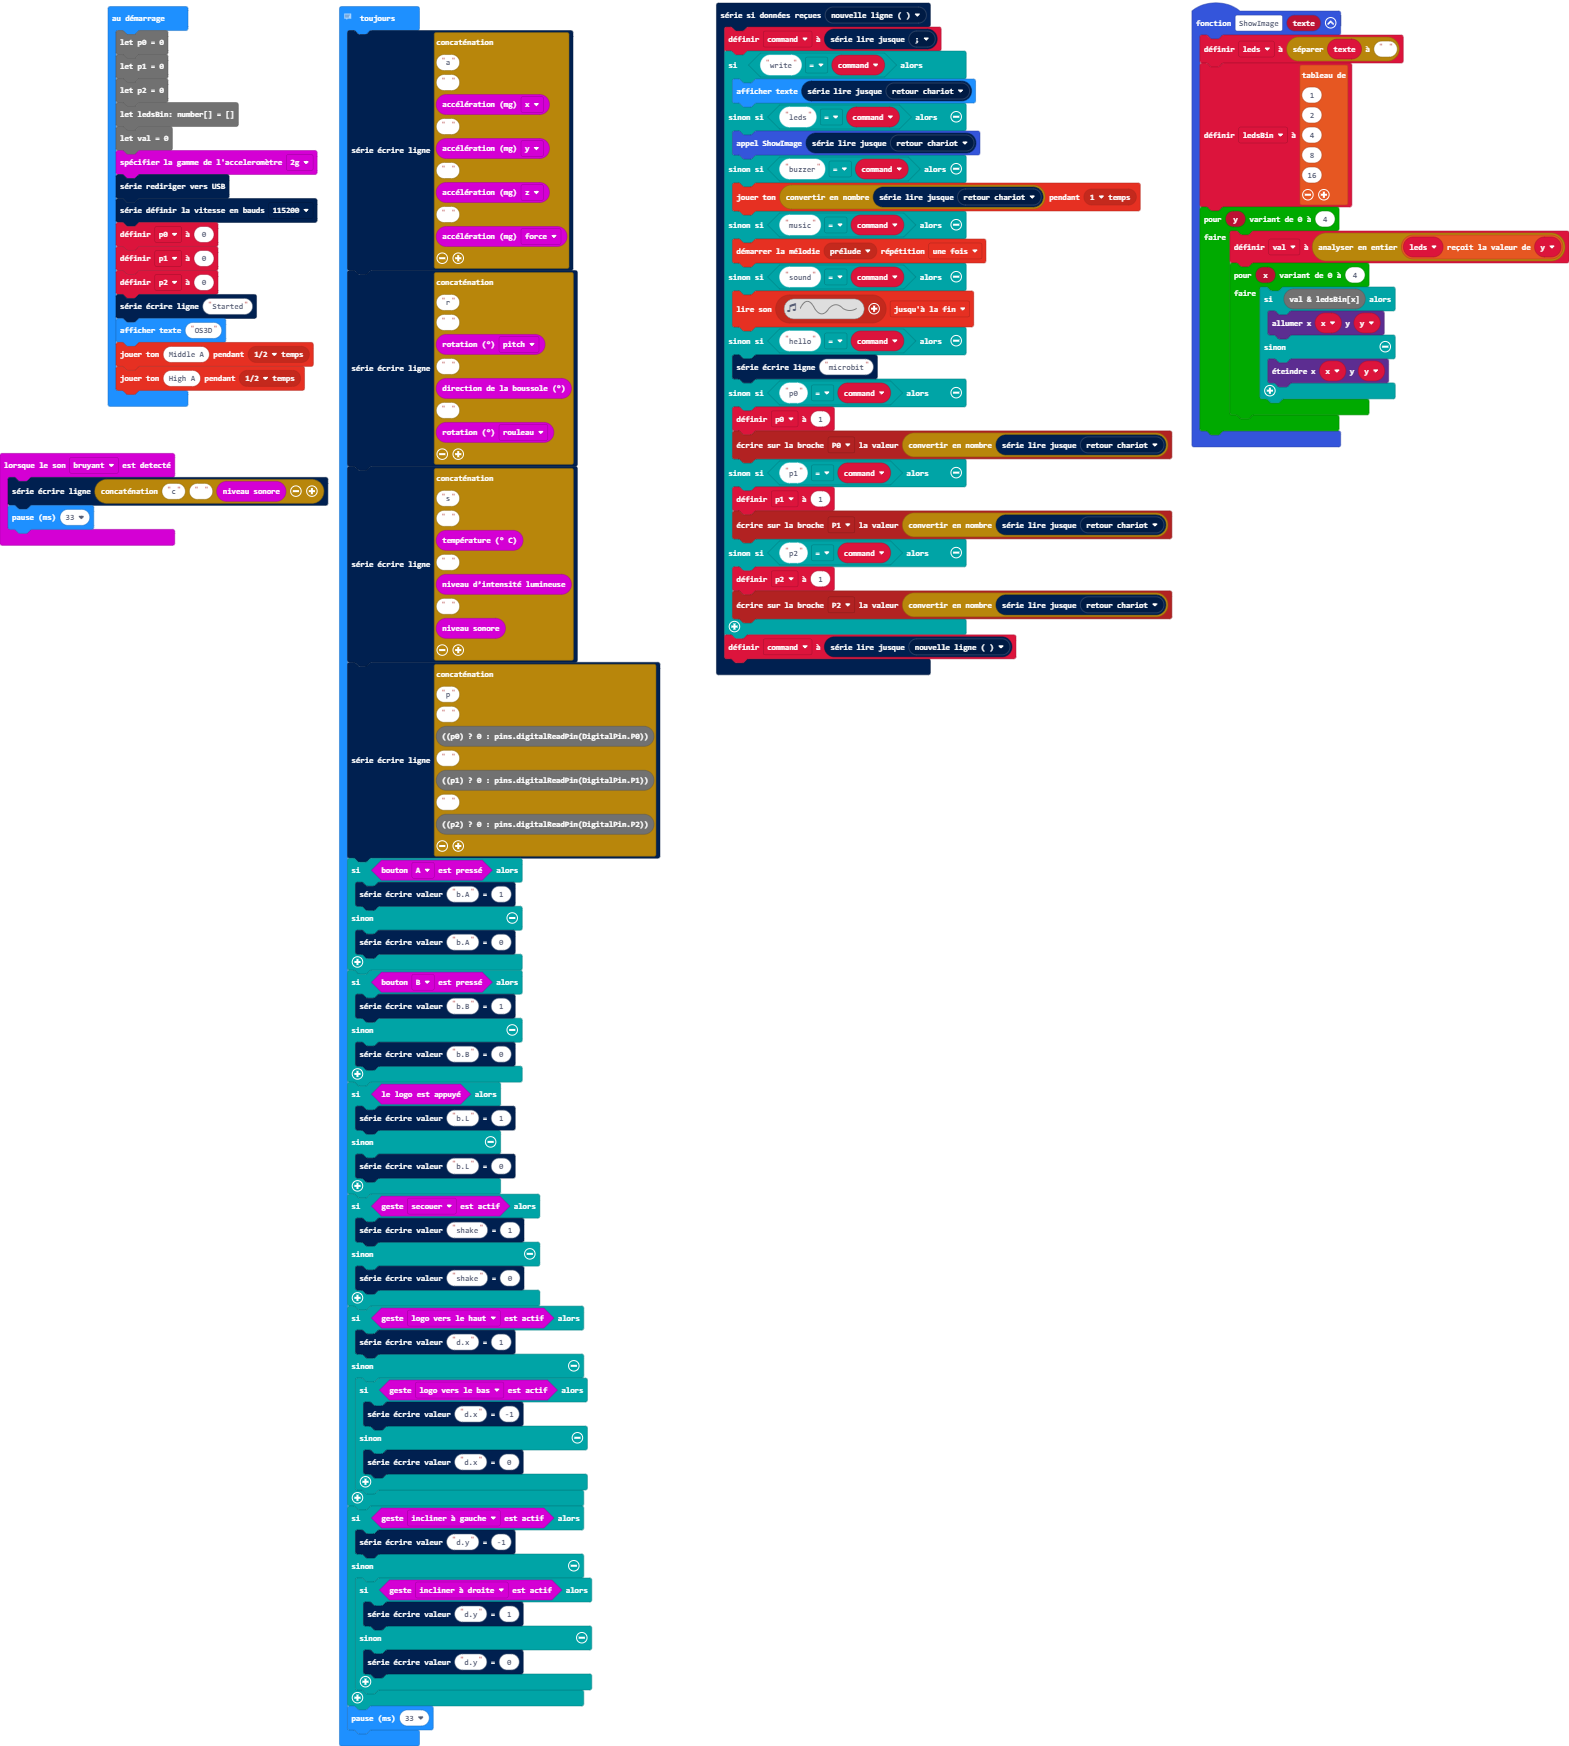
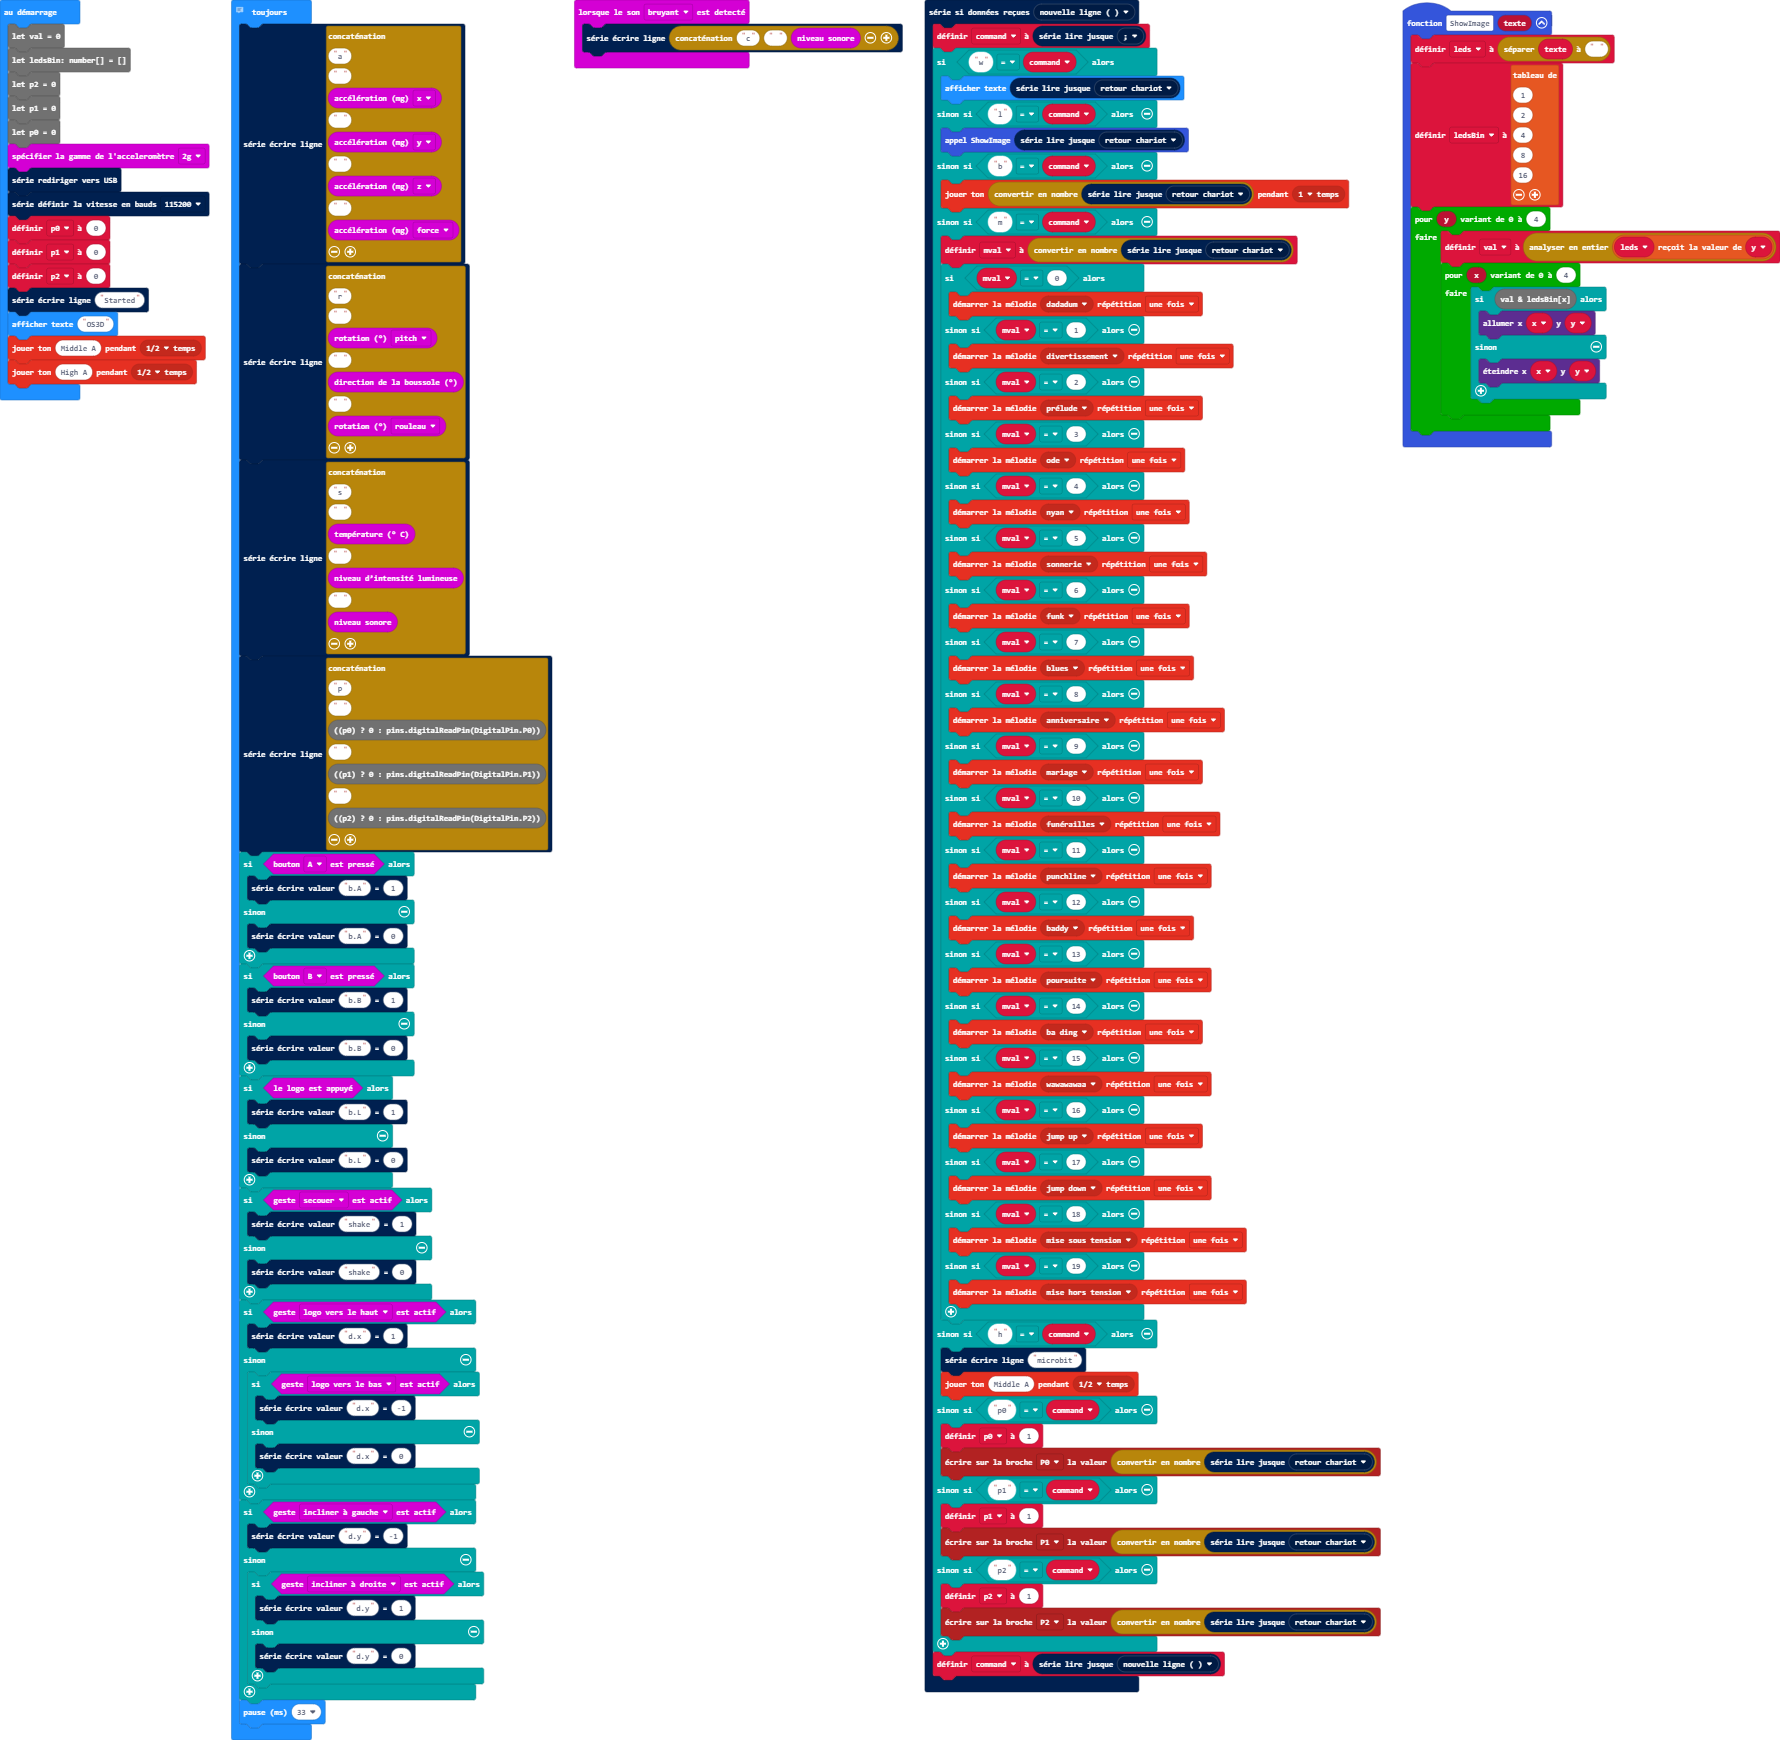
Mise à jour main.blocks, main.ts

diff --git a/main.ts b/main.ts
@@ -20,22 +20,61 @@ function ShowImage (texte: string) {
 }
 input.onSound(DetectedSound.Loud, function () {
     serial.writeLine("c" + " " + input.soundLevel())
-    basic.pause(33)
 })
 serial.onDataReceived(serial.delimiters(Delimiters.NewLine), function () {
     command = serial.readUntil(serial.delimiters(Delimiters.SemiColon))
-    if ("write" == command) {
+    if ("w" == command) {
         basic.showString(serial.readUntil(serial.delimiters(Delimiters.CarriageReturn)))
-    } else if ("leds" == command) {
+    } else if ("l" == command) {
         ShowImage(serial.readUntil(serial.delimiters(Delimiters.CarriageReturn)))
-    } else if ("buzzer" == command) {
+    } else if ("b" == command) {
         music.playTone(parseFloat(serial.readUntil(serial.delimiters(Delimiters.CarriageReturn))), music.beat(BeatFraction.Whole))
-    } else if ("music" == command) {
-        music.startMelody(music.builtInMelody(Melodies.Prelude), MelodyOptions.Once)
-    } else if ("sound" == command) {
-        music.playSoundEffect(music.createSoundEffect(WaveShape.Sine, 200, 600, 255, 0, 150, SoundExpressionEffect.None, InterpolationCurve.Linear), SoundExpressionPlayMode.UntilDone)
-    } else if ("hello" == command) {
+    } else if ("m" == command) {
+        mval = parseFloat(serial.readUntil(serial.delimiters(Delimiters.CarriageReturn)))
+        if (mval == 0) {
+            music.startMelody(music.builtInMelody(Melodies.Dadadadum), MelodyOptions.Once)
+        } else if (mval == 1) {
+            music.startMelody(music.builtInMelody(Melodies.Entertainer), MelodyOptions.Once)
+        } else if (mval == 2) {
+            music.startMelody(music.builtInMelody(Melodies.Prelude), MelodyOptions.Once)
+        } else if (mval == 3) {
+            music.startMelody(music.builtInMelody(Melodies.Ode), MelodyOptions.Once)
+        } else if (mval == 4) {
+            music.startMelody(music.builtInMelody(Melodies.Nyan), MelodyOptions.Once)
+        } else if (mval == 5) {
+            music.startMelody(music.builtInMelody(Melodies.Ringtone), MelodyOptions.Once)
+        } else if (mval == 6) {
+            music.startMelody(music.builtInMelody(Melodies.Funk), MelodyOptions.Once)
+        } else if (mval == 7) {
+            music.startMelody(music.builtInMelody(Melodies.Blues), MelodyOptions.Once)
+        } else if (mval == 8) {
+            music.startMelody(music.builtInMelody(Melodies.Birthday), MelodyOptions.Once)
+        } else if (mval == 9) {
+            music.startMelody(music.builtInMelody(Melodies.Wedding), MelodyOptions.Once)
+        } else if (mval == 10) {
+            music.startMelody(music.builtInMelody(Melodies.Funeral), MelodyOptions.Once)
+        } else if (mval == 11) {
+            music.startMelody(music.builtInMelody(Melodies.Punchline), MelodyOptions.Once)
+        } else if (mval == 12) {
+            music.startMelody(music.builtInMelody(Melodies.Baddy), MelodyOptions.Once)
+        } else if (mval == 13) {
+            music.startMelody(music.builtInMelody(Melodies.Chase), MelodyOptions.Once)
+        } else if (mval == 14) {
+            music.startMelody(music.builtInMelody(Melodies.BaDing), MelodyOptions.Once)
+        } else if (mval == 15) {
+            music.startMelody(music.builtInMelody(Melodies.Wawawawaa), MelodyOptions.Once)
+        } else if (mval == 16) {
+            music.startMelody(music.builtInMelody(Melodies.JumpUp), MelodyOptions.Once)
+        } else if (mval == 17) {
+            music.startMelody(music.builtInMelody(Melodies.JumpDown), MelodyOptions.Once)
+        } else if (mval == 18) {
+            music.startMelody(music.builtInMelody(Melodies.PowerUp), MelodyOptions.Once)
+        } else if (mval == 19) {
+            music.startMelody(music.builtInMelody(Melodies.PowerDown), MelodyOptions.Once)
+        }
+    } else if ("h" == command) {
         serial.writeLine("microbit")
+        music.playTone(440, music.beat(BeatFraction.Half))
     } else if ("p0" == command) {
         p0 = 1
         pins.digitalWritePin(DigitalPin.P0, parseFloat(serial.readUntil(serial.delimiters(Delimiters.CarriageReturn))))
@@ -48,13 +87,14 @@ serial.onDataReceived(serial.delimiters(Delimiters.NewLine), function () {
     }
     command = serial.readUntil(serial.delimiters(Delimiters.NewLine))
 })
+let mval = 0
 let command = ""
 let leds: string[] = []
-let p0 = 0
-let p1 = 0
-let p2 = 0
-let ledsBin: number[] = []
 let val = 0
+let ledsBin: number[] = []
+let p2 = 0
+let p1 = 0
+let p0 = 0
 input.setAccelerometerRange(AcceleratorRange.TwoG)
 serial.redirectToUSB()
 serial.setBaudRate(BaudRate.BaudRate115200)
